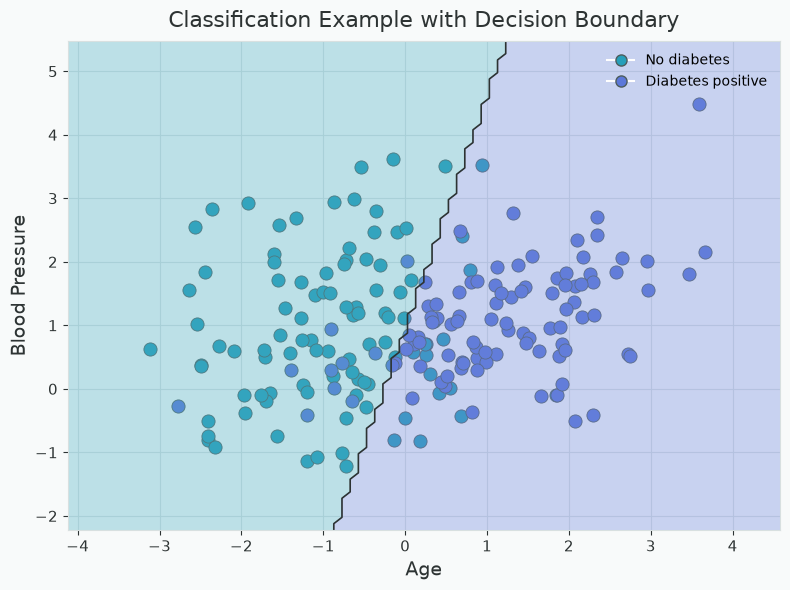
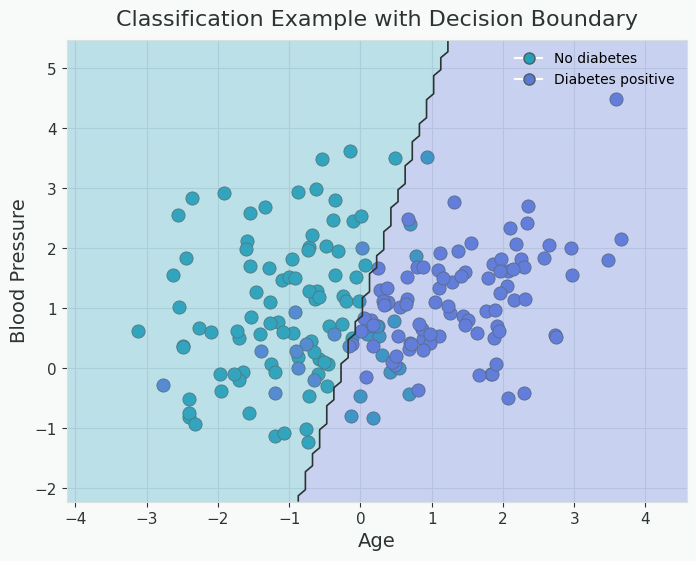
using own plot config

diff --git a/CCPlots/implementation/ClassificationExample.py b/CCPlots/implementation/ClassificationExample.py
@@ -1,66 +1,34 @@
 """
-ClassificationExample.py
+Two-output classification example: a decision-boundary scatter plot and a
+confusion matrix (with expanded TN / FP / FN / TP labels) for a diabetes
+prediction task using logistic regression.
 
-Plot an example of a classification problem. Generates a plot for the slides including a decision boundary
-and a confusion matrix to help illustrate the concept.
+Figures
+-------
+- ``classification_decision_boundary.png`` / ``_NL.png`` — decision boundary
+- ``classification_confusion_matrix.png`` / ``_NL.png`` — confusion matrix
+
+Configuration
+-------------
+``CCPlots/plot_configs/classification.json``
 """
 
-from sklearn.datasets import make_classification
-from sklearn.model_selection import train_test_split
-from sklearn.linear_model import LogisticRegression
-from sklearn.metrics import confusion_matrix, ConfusionMatrixDisplay
 import matplotlib.colors as mcolors
 import matplotlib.pyplot as plt
 import numpy as np
+from sklearn.datasets import make_classification
+from sklearn.linear_model import LogisticRegression
+from sklearn.metrics import confusion_matrix, ConfusionMatrixDisplay
+from sklearn.model_selection import train_test_split
 
 from CCPlots.PlotExample import PlotExample
-from CCPlots.config import BITROOT_PALETTE, apply_bitroot_style, output_path
-
-RANDOM_SEED = 42
-
-TEXT_BY_LOCALE = {
-    "en": {
-        "decision_title": "Classification Example with Decision Boundary",
-        "confusion_title": "Confusion Matrix",
-        "xlabel": "Age",
-        "ylabel": "Blood Pressure",
-        "confusion_xlabel": "Predicted label",
-        "confusion_ylabel": "True label",
-        "legend_no_diabetes": "No diabetes",
-        "legend_diabetes_positive": "Diabetes positive",
-        "tn": "TN",
-        "tn_desc": "Correct: no diabetes",
-        "fp": "FP",
-        "fp_desc": "False alarm: labelled diabetic",
-        "fn": "FN",
-        "fn_desc": "Missed: told no diabetes",
-        "tp": "TP",
-        "tp_desc": "Correct: diabetes identified",
-    },
-    "nl": {
-        "decision_title": "Diabetes classificatievoorbeeld",
-        "confusion_title": "Verwarringsmatrix",
-        "xlabel": "Leeftijd",
-        "ylabel": "Bloeddruk",
-        "confusion_xlabel": "Voorspeld label",
-        "confusion_ylabel": "Werkelijk label",
-        "legend_no_diabetes": "Geen diabetes",
-        "legend_diabetes_positive": "Diabetes positief",
-        "tn": "TN",
-        "tn_desc": "Geen diabetes, correct herkend",
-        "fp": "FP",
-        "fp_desc": "Geen diabetes, valse diagnose",
-        "fn": "FN",
-        "fn_desc": "Wel diabetes, niet herkend",
-        "tp": "TP",
-        "tp_desc": "Diabetes correct herkend",
-    },
-}
+from CCPlots.config import BITROOT_PALETTE, output_path
 
 
-class ClassificationExample(PlotExample):
+class Classification(PlotExample):
 
-    # We will hold our data and classifier later
+    CONFIG_KEY = "classification"
+
     X, y = None, None
     class_cmap = mcolors.ListedColormap([
         BITROOT_PALETTE["primary_soft"],
@@ -80,49 +48,42 @@ class ClassificationExample(PlotExample):
     classifier: LogisticRegression = None
 
     def main(self):
-        """
-        Execute a LR on synth data and plot a decision boundary and confusion matrix
-        in English and Dutch
-        """
-        # Generate dummy data
         self.generate_data()
 
-        # Split the data into training and testing sets
         self.X_train, self.X_test, self.y_train, self.y_test = train_test_split(
-            self.X, self.y, test_size=0.3, random_state=RANDOM_SEED)
+            self.X, self.y, test_size=0.3, random_state=42)
 
-        # Train LR classification model
         self.train_classifier()
 
-        for locale, labels in (("en", TEXT_BY_LOCALE["en"]), ("nl", TEXT_BY_LOCALE["nl"])):
+        for _locale, labels, suffix in self.iter_locales():
             self.plot_decision_boundary(
-                fname=f"classification_decision_boundary{'_NL' if locale == 'nl' else ''}.png",
                 title=labels["decision_title"],
                 xlabel=labels["xlabel"],
                 ylabel=labels["ylabel"],
                 legend_labels=(labels["legend_no_diabetes"], labels["legend_diabetes_positive"]),
+                suffix=suffix,
             )
 
             self.plot_confusion_matrix(
-                fname=f"classification_confusion_matrix{'_NL' if locale == 'nl' else ''}.png",
                 title=labels["confusion_title"],
                 xlabel=labels["confusion_xlabel"],
                 ylabel=labels["confusion_ylabel"],
                 legend_labels=(labels["legend_no_diabetes"], labels["legend_diabetes_positive"]),
                 cell_labels=labels,
+                suffix=suffix,
             )
 
-    def plot_confusion_matrix(self, fname: str, title: str,
+    def plot_confusion_matrix(self, title: str,
                               xlabel: str = "Predicted label",
                               ylabel: str = "True label",
                               legend_labels: tuple[str, str] | None = None,
-                              cell_labels: dict | None = None) -> None:
-        # Generate predictions and create a confusion matrix
+                              cell_labels: dict | None = None,
+                              suffix: str = "") -> None:
         y_pred = self.classifier.predict(self.X_test)
         cm = confusion_matrix(self.y_test, y_pred)
 
-        # Plot the confusion matrix
-        fig = plt.figure(figsize=(7, 5.5), facecolor=BITROOT_PALETTE['background'])
+        cfigsize = self.config.panel_figsize("confusion_matrix")
+        fig = plt.figure(figsize=cfigsize, facecolor=BITROOT_PALETTE['background'])
         ax = plt.gca()
         ax.set_facecolor(BITROOT_PALETTE['card_background'])
         disp = ConfusionMatrixDisplay(confusion_matrix=cm, display_labels=self.classifier.classes_)
@@ -131,7 +92,6 @@ class ClassificationExample(PlotExample):
         plt.xlabel(xlabel, fontsize=14, color=BITROOT_PALETTE['text'])
         plt.ylabel(ylabel, fontsize=14, color=BITROOT_PALETTE['text'])
 
-        # Add expanded cell labels (abbreviation + real-world meaning)
         if cell_labels is not None:
             labels_2x2 = [
                 cell_labels.get("tn", "TN"),  cell_labels.get("tn_desc", ""),
@@ -149,17 +109,17 @@ class ClassificationExample(PlotExample):
                 ax.text(col, row - 0.28, desc, ha='center', va='center',
                         fontsize=7, color=text_color)
 
-        apply_bitroot_style(ax, background=BITROOT_PALETTE['card_background'])
+        self.apply_style(ax, background=BITROOT_PALETTE['card_background'])
         ax.grid(False)
         plt.tight_layout()
+        fname = self.config.resolve_output("confusion_matrix", suffix=suffix)
         plt.savefig(output_path(fname), bbox_inches='tight', pad_inches=0.1)
 
-    def plot_decision_boundary(self, fname: str, title: str,
-                               xlabel: str = "Age",
-                               ylabel: str = "Blood Pressure",
-                               legend_labels: tuple[str, str] | None = None) -> None:
-        """ Plot the decision boundary and save the file with the desired text. """
-        # Create a mesh to plot the decision boundary
+    def plot_decision_boundary(self, title: str,
+                                xlabel: str = "Age",
+                                ylabel: str = "Blood Pressure",
+                                legend_labels: tuple[str, str] | None = None,
+                                suffix: str = "") -> None:
         x_min, x_max = self.X[:, 0].min() - 1, self.X[:, 0].max() + 1
         y_min, y_max = self.X[:, 1].min() - 1, self.X[:, 1].max() + 1
         xx, yy = np.meshgrid(np.arange(x_min, x_max, 0.1),
@@ -168,10 +128,7 @@ class ClassificationExample(PlotExample):
         Z = self.classifier.predict(np.c_[xx.ravel(), yy.ravel()])
         Z = Z.reshape(xx.shape)
 
-        # Plot the decision boundary
-        plt.figure(figsize=(8, 6), facecolor=BITROOT_PALETTE['background'])
-        ax = plt.gca()
-        ax.set_facecolor(BITROOT_PALETTE['background'])
+        fig, ax = self.create_figure()
 
         class_colors = [BITROOT_PALETTE['primary'], BITROOT_PALETTE['secondary']]
         boundary_colors = [BITROOT_PALETTE['primary_soft'], BITROOT_PALETTE['secondary_soft']]
@@ -194,17 +151,14 @@ class ClassificationExample(PlotExample):
         ]
         ax.legend(handles=legend_handles, frameon=False, loc='upper right', fontsize=10)
 
-        plt.title(title, fontsize=16, color=BITROOT_PALETTE['text'], pad=10)
-        plt.xlabel(xlabel, fontsize=14, color=BITROOT_PALETTE['text'])
-        plt.ylabel(ylabel, fontsize=14, color=BITROOT_PALETTE['text'])
-        apply_bitroot_style(ax)
-        plt.tight_layout()
-        plt.savefig(output_path(fname), bbox_inches='tight', pad_inches=0.1)
+        ax.set_title(title, fontsize=16, color=BITROOT_PALETTE['text'], pad=10)
+        ax.set_xlabel(xlabel, fontsize=14, color=BITROOT_PALETTE['text'])
+        ax.set_ylabel(ylabel, fontsize=14, color=BITROOT_PALETTE['text'])
+        self.apply_style(ax)
+
+        self.save_figure(fig, "decision_boundary", suffix=suffix)
 
     def generate_data(self) -> None:
-        """ Generate some dummy data to simulate a diabetes classification problem. """
-        # Generate a simple dataset for classification, where feature 1 is 'Age' and
-        # feature 2 is 'Blood Pressure'
         self.X, self.y = make_classification(
             n_samples=200,
             n_features=2,
@@ -212,17 +166,13 @@ class ClassificationExample(PlotExample):
             n_redundant=0,
             n_clusters_per_class=1,
             n_classes=2,
-            random_state=RANDOM_SEED
+            random_state=42
         )
 
     def train_classifier(self) -> None:
-        """ Train a Logistic Regression model on the data """
-        # Train a simple logistic regression classifier
         self.classifier = LogisticRegression()
         self.classifier.fit(self.X_train, self.y_train)
 
 
 if __name__ == "__main__":
-    # Maintain this exactly, or we won't be able to regenerate every plot
-    # resulting from this code.
-    ClassificationExample().main()
+    Classification().main()
